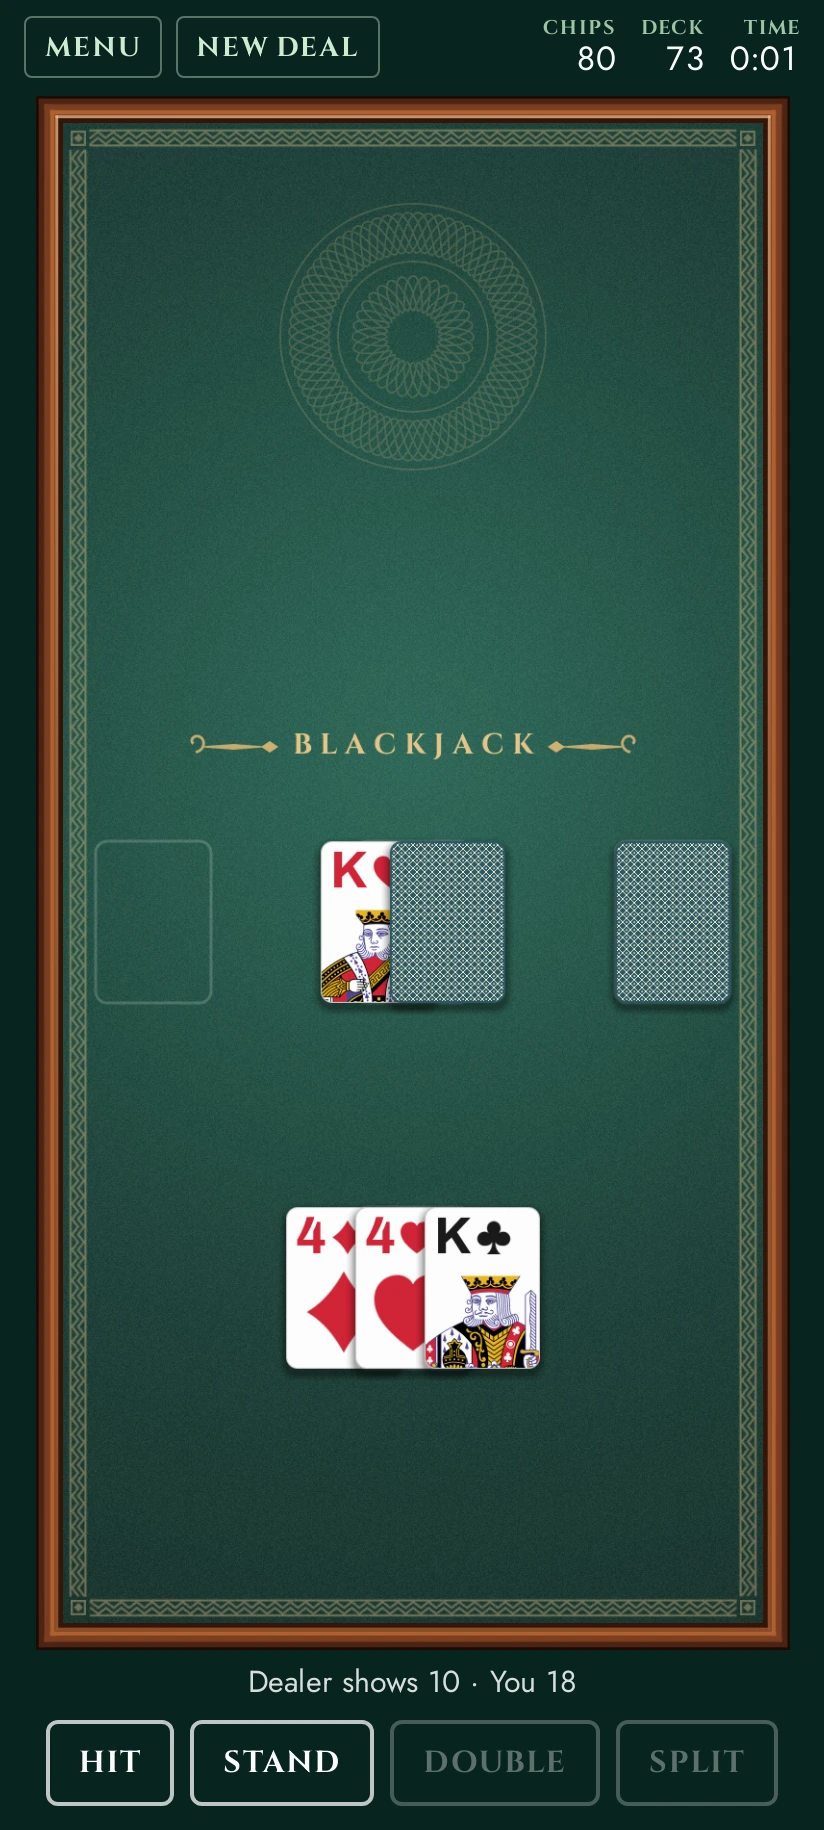
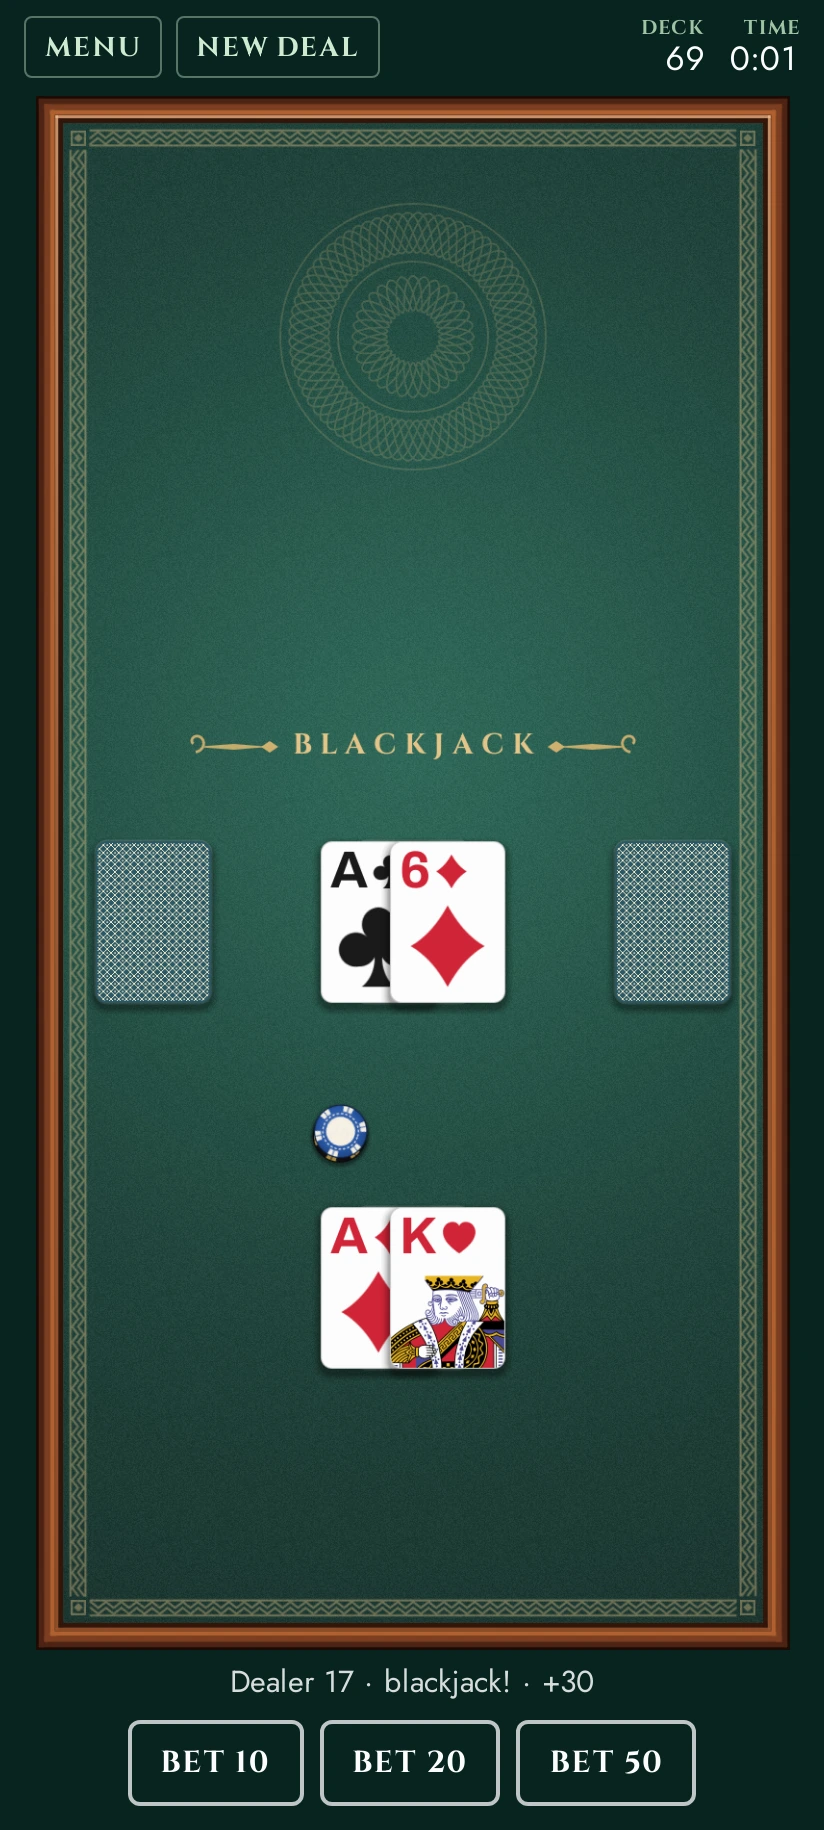
Blackjack's bankroll is always chips, in front of the player
TableGame.scoreIsChips shows the score as a chip stack on the felt
whatever the score-display setting says, and hides the number in the bar
as the chips setting does. TableGame.chipsAt lets a game put the stack
somewhere other than beside its name: Blackjack's sits between the
dealer and your hand, where a bet goes on a real table.

diff --git a/src/app/pages/play/play.ts b/src/app/pages/play/play.ts
@@ -58,9 +58,10 @@ import { Autosave, SavedGames } from '../../saved-games';
   templateUrl: './play.html',
 })
 export class Play implements AfterViewInit, OnDestroy {
-  // Protected rather than private: the template reads scoreDisplay() to
-  // decide whether the numeric score is shown or visually hidden in favour
-  // of the chip stack on the felt. See play.html.
+  // Protected rather than private: the template reads it, and scoreDisplay
+  // below is the setting as this game applies it - whether the numeric score
+  // is shown or visually hidden in favour of the chip stack on the felt. See
+  // play.html.
   protected readonly settings = inject(Settings);
   private readonly stats = inject(Stats);
   private readonly savedGames = inject(SavedGames);
@@ -145,6 +146,11 @@ export class Play implements AfterViewInit, OnDestroy {
   // What a game played for points calls its points. See TableGame.forPoints.
   protected readonly forPoints = this.table.forPoints;
   protected readonly undoable = this.table.undoable !== false;
+  // Chips on the felt or a number in the bar - the setting's choice, except
+  // in the game whose score is chips, where it is always chips.
+  protected readonly scoreDisplay = computed(() =>
+    this.table.scoreIsChips ? 'chips' : this.settings.scoreDisplay(),
+  );
   // A hand of that game that ended short of it. Not stuck - there is nothing
   // to look for - but over, with a score, and shown whatever the "warn when
   // stuck" setting says, because it is the end of the game rather than a
@@ -219,7 +225,7 @@ export class Play implements AfterViewInit, OnDestroy {
       backColor: this.settings.backColor(),
       handedness: this.settings.handedness(),
       showShuffle: this.settings.showShuffle(),
-      scoreDisplay: this.settings.scoreDisplay(),
+      scoreDisplay: this.scoreDisplay(),
       deckStyle: this.settings.deckStyle(),
       resume: this.saved?.snapshot,
       events: {

diff --git a/src/app/game/table-game.ts b/src/app/game/table-game.ts
@@ -242,6 +242,20 @@ export interface TableGame<S> {
   readonly forPoints?: { unit: string };
 
   /**
+   * Whether the score is shown as a stack of chips on the felt whatever the
+   * score-display setting says. For the game where the score is chips: a
+   * bankroll as a number in the bar is a spreadsheet, not a table.
+   */
+  readonly scoreIsChips?: boolean;
+
+  /**
+   * Where the middle of the chip stack sits, in board units, for a game that
+   * wants it somewhere other than the band beside its name - Blackjack's, in
+   * front of the player, where a bet goes on a real table.
+   */
+  readonly chipsAt?: { x: number; y: number };
+
+  /**
    * Where a move made with one of the game's buttons scores from, for the
    * "+20" that rises off the table. See GameView.actions.
    */

diff --git a/src/app/game/solitaire-scene.ts b/src/app/game/solitaire-scene.ts
@@ -355,9 +355,11 @@ export class SolitaireScene {
     this.toasts = toastsOf(this.board);
     // In the band between the top row and the tableau, to the right of the
     // game's name - and sliding down the board with it.
-    this.chips = new ScoreChips(
-      this.board, this.width - CHIP_RAIL_CLEARANCE - CHIP_STACK_REACH, TABLEAU_TOP_Y - 18,
-    );
+    // Or where the game puts them: see TableGame.chipsAt.
+    const chipsAt = this.table.chipsAt;
+    this.chips = chipsAt
+      ? new ScoreChips(this.board, FRAME_PAD + chipsAt.x - CHIP_STACK_REACH / 2, chipsAt.y)
+      : new ScoreChips(this.board, this.width - CHIP_RAIL_CLEARANCE - CHIP_STACK_REACH, TABLEAU_TOP_Y - 18);
     this.chips.setDrop(this.drop);
 
     // The lettering is painted once, so its face has to be in first.

diff --git a/src/app/pages/play/play.html b/src/app/pages/play/play.html
@@ -22,7 +22,7 @@
              screen reader a stack of images can't carry. The reading kept
              here rather than moved into the board's own aria-label, which
              describes the game once rather than on every score change. -->
-        <div class="hud__stat" [class.visually-hidden]="settings.scoreDisplay() === 'chips'">
+        <div class="hud__stat" [class.visually-hidden]="scoreDisplay() === 'chips'">
           <span class="hud__label">{{ forPoints?.unit === 'chips' ? 'Chips' : 'Score' }}</span>
           <span class="hud__value">{{ view().score }}</span>
         </div>

diff --git a/src/app/game/blackjack-table.ts b/src/app/game/blackjack-table.ts
@@ -40,6 +40,10 @@ export function blackjackTable(bankroll: () => number): TableGame<BlackjackState
     // A move is a button. How many of them a shoe took says nothing.
     showsMoves: false,
     forPoints: { unit: 'chips' },
+    // On the felt, always: see TableGame.scoreIsChips.
+    scoreIsChips: true,
+    // Between the dealer and your hand, where a bet sits on a real table.
+    chipsAt: { x: WIDTH / 2, y: (DEALER_Y + HAND_Y) / 2 + 16 },
     // Every hit turns a card nobody has seen. An undo would be a look at
     // the next one.
     undoable: false,
